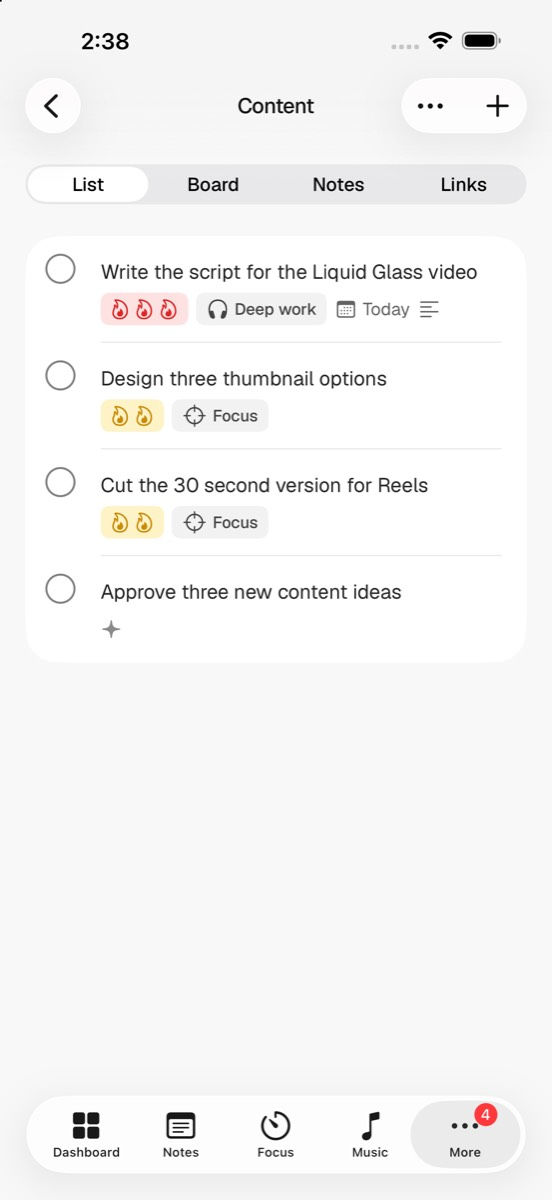
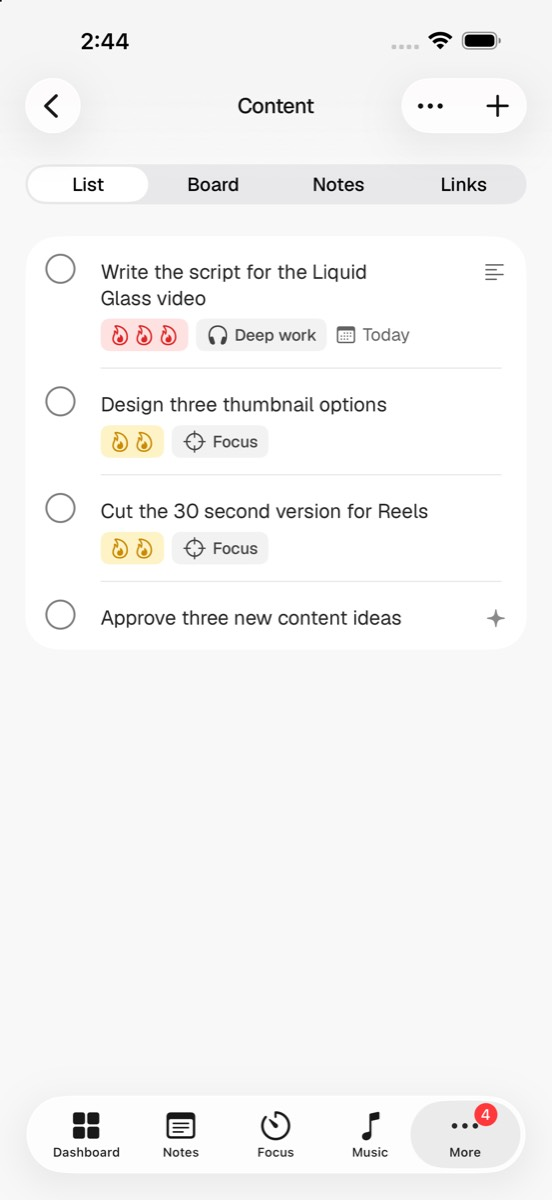
iPhone app: task markers on the title line, even Focus controls, same gap under switches
Repeat, notes and Claude markers sit at the end of a task's title line, so the
second line is only chips and dates. Focus keeps both side buttons in every
mode (dimmed when there's nothing to do). Switch rows at the top of lists use
one controlRow() with the same gap everywhere. The task editor's Project row
shows the project's colour.

diff --git a/ios/LukeOS/Features/Tasks/TaskRow.swift b/ios/LukeOS/Features/Tasks/TaskRow.swift
@@ -22,11 +22,15 @@ struct TaskRow: View {
             .accessibilityLabel(task.status == .done ? "Mark not done" : "Mark done")
 
             VStack(alignment: .leading, spacing: Space.line) {
-                Text(task.title)
-                    .textStyle(.control, color: task.status == .done ? .mutedText : .text)
-                    .strikethrough(task.status == .done, color: .mutedText)
-                    .multilineTextAlignment(.leading)
-                    .fixedSize(horizontal: false, vertical: true)
+                HStack(alignment: .firstTextBaseline, spacing: Space.s) {
+                    Text(task.title)
+                        .textStyle(.control, color: task.status == .done ? .mutedText : .text)
+                        .strikethrough(task.status == .done, color: .mutedText)
+                        .multilineTextAlignment(.leading)
+                        .fixedSize(horizontal: false, vertical: true)
+                        .frame(maxWidth: .infinity, alignment: .leading)
+                    if hasIndicators { indicators }
+                }
                 if hasMeta { meta }
             }
             .frame(maxWidth: .infinity, alignment: .leading)
@@ -36,9 +40,26 @@ struct TaskRow: View {
         .onTapGesture(perform: onOpen)
     }
 
+    /// Chips and the due date: the second line, only when there's something to show.
     private var hasMeta: Bool {
-        (showProject && task.project != nil) || task.priority != nil || (task.area == .work && task.effort != nil)
-            || task.dueDate != nil || task.repeat != nil || (task.notes?.isEmpty == false) || task.madeBy.isClaude
+        (showProject && task.project != nil) || task.priority != nil || (task.area == .work && task.effort != nil) || task.dueDate != nil
+    }
+
+    /// Small markers (repeats, has notes, made by Claude) sit at the end of the title line.
+    private var hasIndicators: Bool { task.repeat != nil || task.notes?.isEmpty == false || task.madeBy.isClaude }
+
+    private var indicators: some View {
+        HStack(spacing: Space.s) {
+            if let r = task.repeat {
+                Image(systemName: "repeat").accessibilityLabel(Repeats.name(r))
+            }
+            if task.notes?.isEmpty == false {
+                Image(systemName: "text.alignleft").accessibilityLabel("Has notes")
+            }
+            ClaudeMark(madeBy: task.madeBy)
+        }
+        .font(.icon(.meta))
+        .foregroundStyle(Color.mutedText)
     }
 
     private var meta: some View {
@@ -47,14 +68,6 @@ struct TaskRow: View {
             if let p = task.priority { PriorityChip(priority: p) }
             if task.area == .work, let e = task.effort { FocusChip(effort: e) }
             if let due = task.dueDate { DueLabel(due: due, today: today).frame(minHeight: Space.chip) }
-            if let r = task.repeat {
-                Image(systemName: "repeat").font(.icon(.meta)).foregroundStyle(Color.mutedText)
-                    .frame(minHeight: Space.chip).accessibilityLabel(Repeats.name(r))
-            }
-            if task.notes?.isEmpty == false {
-                Image(systemName: "text.alignleft").font(.icon(.meta)).foregroundStyle(Color.mutedText).frame(minHeight: Space.chip)
-            }
-            ClaudeMark(madeBy: task.madeBy).frame(minHeight: Space.chip)
         }
     }
 }

diff --git a/ios/LukeOS/Features/Focus/FocusScreen.swift b/ios/LukeOS/Features/Focus/FocusScreen.swift
@@ -100,7 +100,7 @@ struct FocusControls: View {
         HStack(spacing: Space.section) {
             Button { onReset?() } label: { Image(systemName: "arrow.counterclockwise").frame(width: Size.transportSide, height: Size.transportSide) }
                 .buttonStyle(.glass).buttonBorderShape(.circle)
-                .opacity(onReset == nil ? 0 : 1).disabled(onReset == nil)
+                .opacity(onReset == nil ? 0.35 : 1).disabled(onReset == nil)
                 .accessibilityLabel("Reset")
             Button(action: onToggle) {
                 Image(systemName: running ? "pause.fill" : "play.fill")
@@ -113,7 +113,7 @@ struct FocusControls: View {
             .accessibilityLabel(running ? "Pause" : "Start")
             Button { onSkip?() } label: { Image(systemName: skipSymbol).frame(width: Size.transportSide, height: Size.transportSide) }
                 .buttonStyle(.glass).buttonBorderShape(.circle)
-                .opacity(onSkip == nil ? 0 : 1).disabled(onSkip == nil)
+                .opacity(onSkip == nil ? 0.35 : 1).disabled(onSkip == nil)
                 .accessibilityLabel("Skip")
         }
         .font(.icon(.row))
@@ -160,7 +160,7 @@ struct StopwatchView: View {
                       time: FocusTimer.clock(timer.timerElapsed), caption: "Timer", running: running)
             FocusControls(
                 running: running,
-                onReset: nil,
+                onReset: started && !running ? { timer.stopTimer() } : nil,
                 onToggle: { running ? timer.pauseTimer() : timer.startTimer() },
                 onSkip: started ? { timer.stopTimer() } : nil,
                 skipSymbol: "stop.fill"
@@ -193,9 +193,10 @@ struct SprintView: View {
                 }
                 FocusControls(
                     running: running,
-                    onReset: started ? { timer.finishSprint() } : nil,
+                    onReset: started ? { timer.newSprint() } : nil,
                     onToggle: { running ? timer.pauseSprint() : timer.startSprint() },
-                    onSkip: nil
+                    onSkip: started ? { timer.finishSprint() } : nil,
+                    skipSymbol: "stop.fill"
                 )
                 tasks
                 if started { scratchPad }
@@ -410,13 +411,14 @@ struct FocusStatsSheet: View {
     var body: some View {
         NavigationStack {
             List {
-                Picker("", selection: $days) {
-                    Text("7 days").tag(7)
-                    Text("30 days").tag(30)
+                Section {
+                    Picker("", selection: $days) {
+                        Text("7 days").tag(7)
+                        Text("30 days").tag(30)
+                    }
+                    .pickerStyle(.segmented)
+                    .controlRow()
                 }
-                .pickerStyle(.segmented)
-                .listRowInsets(EdgeInsets())
-                .listRowBackground(Color.clear)
 
                 if let stats {
                     Section {

diff --git a/ios/LukeOS/Features/Tasks/TaskEditor.swift b/ios/LukeOS/Features/Tasks/TaskEditor.swift
@@ -64,7 +64,7 @@ struct TaskEditor: View {
                         menuRow("Signal or noise", "dot.radiowaves.left.and.right", Binding(get: { task.lane.rawValue }, set: { set(["lane": .string($0)]) })) {
                             ForEach(Lane.allCases, id: \.self) { Text($0.label).tag($0.rawValue) }
                         }
-                        menuRow("Project", "circle.grid.2x1", Binding(get: { task.project?.id ?? "" }, set: { set(["projectId": $0.isEmpty ? .null : .string($0)]) })) {
+                        menuRow("Project", "folder", dot: task.project.map { $0.color ?? "slate" }, Binding(get: { task.project?.id ?? "" }, set: { set(["projectId": $0.isEmpty ? .null : .string($0)]) })) {
                             Text("None").tag("")
                             ForEach(store.projects(in: .work)) { p in Text(p.name).tag(p.id) }
                         }
@@ -134,14 +134,18 @@ struct TaskEditor: View {
     static let gaps = ["every_2_days", "every_3_days", "every_2_weeks", "every_3_weeks", "every_3_months", "every_6_months"]
 
     /// A settings-style row: icon, name, and the choice on the right as a menu.
-    private func menuRow<C: View>(_ title: String, _ symbol: String, _ selection: Binding<String>, @ViewBuilder options: () -> C) -> some View {
+    private func menuRow<C: View>(_ title: String, _ symbol: String, dot: String? = nil, _ selection: Binding<String>, @ViewBuilder options: () -> C) -> some View {
         Picker(selection: Binding(get: { selection.wrappedValue }, set: { Haptics.select(); selection.wrappedValue = $0 })) {
             options()
         } label: {
             Label {
                 Text(title).textStyle(.control, color: .text)
             } icon: {
-                Image(systemName: symbol).font(.icon(.row)).foregroundStyle(Color.icon)
+                if let dot {
+                    ProjectDot(color: dot, size: Size.projectDot + 3)
+                } else {
+                    Image(systemName: symbol).font(.icon(.row)).foregroundStyle(Color.icon)
+                }
             }
         }
         .pickerStyle(.menu)

diff --git a/ios/LukeOS/Features/More/DocumentsScreen.swift b/ios/LukeOS/Features/More/DocumentsScreen.swift
@@ -38,14 +38,15 @@ struct DocumentsScreen: View {
 
     var body: some View {
         List {
-            Picker("", selection: $filter) {
-                Text("All").tag("all")
-                Text("Made by me").tag("luke")
-                Text("Made by Claude").tag("claude")
+            Section {
+                Picker("", selection: $filter) {
+                    Text("All").tag("all")
+                    Text("Made by me").tag("luke")
+                    Text("Made by Claude").tag("claude")
+                }
+                .pickerStyle(.segmented)
+                .controlRow()
             }
-            .pickerStyle(.segmented)
-            .listRowInsets(EdgeInsets())
-            .listRowBackground(Color.clear)
 
             let pinned = shown.filter { $0.pinned == true }
             if !pinned.isEmpty, query.isEmpty {

diff --git a/ios/LukeOS/Features/Music/MusicScreen.swift b/ios/LukeOS/Features/Music/MusicScreen.swift
@@ -76,13 +76,14 @@ struct MusicScreen: View {
     var body: some View {
         NavigationStack {
             List {
-                Picker("", selection: $tab) {
-                    Text("Library").tag("library")
-                    Text("Playlists").tag("playlists")
+                Section {
+                    Picker("", selection: $tab) {
+                        Text("Library").tag("library")
+                        Text("Playlists").tag("playlists")
+                    }
+                    .pickerStyle(.segmented)
+                    .controlRow()
                 }
-                .pickerStyle(.segmented)
-                .listRowInsets(EdgeInsets())
-                .listRowBackground(Color.clear)
 
                 if tab == "library" { library } else { playlistsList }
             }

diff --git a/ios/LukeOS/DesignSystem/Components.swift b/ios/LukeOS/DesignSystem/Components.swift
@@ -191,6 +191,15 @@ extension View {
             .listRowInsets(EdgeInsets(top: 12, leading: Space.inset, bottom: 12, trailing: Space.inset))
     }
 
+    /// A row of switches at the top of a list (Library | Playlists, 7 days | 30 days): no card, edge to edge,
+    /// and the same gap below it on every screen. Wrap it in its own `Section`.
+    func controlRow() -> some View {
+        self.listRowInsets(EdgeInsets())
+            .listRowBackground(Color.clear)
+            .listRowSeparator(.hidden)
+            .listSectionSpacing(Space.xl)
+    }
+
     /// The insets for a task row in a list.
     func taskRowInsets() -> some View {
         listRowInsets(EdgeInsets(top: Space.row, leading: Space.inset, bottom: Space.row, trailing: Space.inset))

diff --git a/ios/LukeOS/Features/Dashboard/DashboardScreen.swift b/ios/LukeOS/Features/Dashboard/DashboardScreen.swift
@@ -117,10 +117,9 @@ struct DashboardScreen: View {
 
     private var todayList: some View {
         List {
-            header(inList: true)
-                .listRowInsets(EdgeInsets())
-                .listRowBackground(Color.clear)
-                .listRowSeparator(.hidden)
+            Section {
+                header(inList: true).controlRow()
+            }
 
             if !store.loaded && store.tasks.isEmpty {
                 ProgressView().frame(maxWidth: .infinity).listRowBackground(Color.clear)

diff --git a/ios/LukeOS/Features/More/ProjectScreen.swift b/ios/LukeOS/Features/More/ProjectScreen.swift
@@ -53,7 +53,7 @@ struct ProjectScreen: View {
                 }
             } else {
                 List {
-                    picker.listRowInsets(EdgeInsets()).listRowBackground(Color.clear)
+                    Section { picker.controlRow() }
                     switch tab {
                     case "notes": notesSection
                     case "links": linksSection
